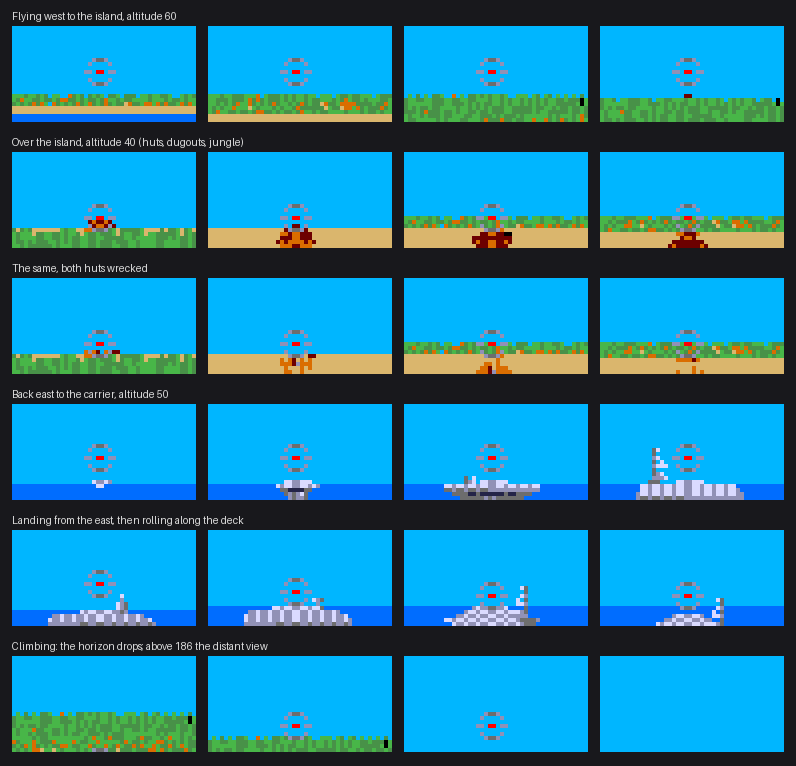
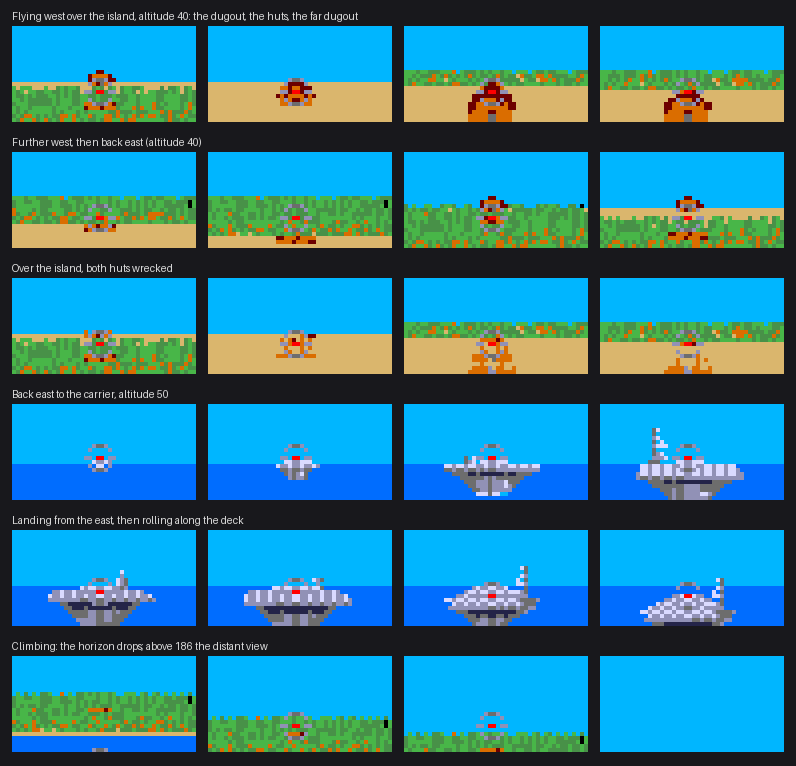
Cockpit window: targets stay in view; black border on the full screens; launch.sh -n
- Play-tested: arriving at the island the first dugout showed, then only
  jungle. With the original's arithmetic a nearer band's jungle strip
  covers the targets behind it, and at usual altitudes the near bands fall
  below the window. The port draws the targets after all the ground and
  sits its picture 5 rows higher (horizon altitude / 16 + 12), so targets
  grow as they approach and the carrier fills the window on landing.
- The border is colour 1: on the briefing (red there) and rank selection
  it is now colour 0, black (Screens_Palette sets R7); verify_p0 checks it.
- ./launch.sh -n runs the ROM already built.
- ships_smoke: after the torpedo release, climb above altitude 200 before
  turning back over it: the guns' shell splashes near a low plane destroy a
  torpedo within 10 px (0x1ae2), so the run depended on the random draw.

diff --git a/src/msx/cockpit.c b/src/msx/cockpit.c
@@ -16,6 +16,7 @@ WINGS_CODE_SEGMENT(WINGS_SEGMENT_COCKPIT)
 #define SEA 0x99
 #define LAND 0x55
 #define FAR_ALTITUDE 186     /* above: the distant view, plain sky */
+#define LIFT 5               /* the port's picture sits higher: the near bands show */
 #define KIND_TOWER 4
 
 CockpitState g_Cockpit;
@@ -146,7 +147,7 @@ static void Scene(u16 x, u8 altitude, u8 left, u8 arrow)
     s_Next[2] = arrow;
     if (altitude > FAR_ALTITUDE) { s_Next[0] = 255; return; }
     s_Col = x >> 3; s_Left = left;
-    s_Next[0] = (altitude >> 4) + 17;
+    s_Next[0] = (altitude >> 4) + 17 - LIFT;
     s_Next[3] = altitude >= 81 ? 17 : ((81 - altitude) >> 2) + 6;
     s_Next[1] = left;
     deck = s_Col >= COCKPIT_CARRIER_FIRST && s_Col <= COCKPIT_CARRIER_LAST;
@@ -284,39 +285,33 @@ static const u8 s_Tree[11] = {
     COCKPIT_TREE + 5, COCKPIT_TREE + 5, COCKPIT_TREE + 4, COCKPIT_TREE + 4, COCKPIT_TREE + 3, COCKPIT_TREE + 3,
     COCKPIT_TREE + 2, COCKPIT_TREE + 2, COCKPIT_TREE + 1, COCKPIT_TREE + 1, COCKPIT_TREE};
 
-/* The bands from `from` (10: the farthest) down to `to`, far to near, a row
- * lower each. */
-static void Bands_(u8 from, u8 to)
-{
-    u8 b = from + 1, row = s_Next[0] + 10 - from;
-    u16 bit = 1 << from;
-    u16 land = s_Next[4] | (u16)s_Next[5] << 8, trees = s_Next[6] | (u16)s_Next[7] << 8;
-    const u8* object = s_Next + 8 + from;
-    for (; b > to; --b, bit >>= 1, ++row, --object)
-    {
-        if (land & bit && row < ROWS) Fill(row, 1, LAND);
-        if (trees & bit) Blit(s_Tree[b - 1], row, 0);
-        if (*object) Blit(*object - 1, row, 0);
-    }
-}
-
-/* The picture in two halves: the sky, the sea and the far bands; then the
- * near bands, the deck view and the sight. */
+/* The picture in two halves: the sky, the sea and the ground, far to near
+ * a row lower each band; then the targets on it (the port draws them after
+ * the ground, so a nearer band's jungle does not hide them), the deck view
+ * and the sight. */
 static void ComposeFar(void)
 {
-    u8 base = s_Next[0];
+    u8 base = s_Next[0], b, row;
+    u16 bit = 1 << 10;
+    u16 land = s_Next[4] | (u16)s_Next[5] << 8, trees = s_Next[6] | (u16)s_Next[7] << 8;
     Fill(0, ROWS, SKY);
     if (base == 255) return;
     if (base < ROWS) Fill(base, ROWS - base, SEA);
-    Bands_(10, 5);
+    for (b = 11, row = base; b; --b, bit >>= 1, ++row)
+    {
+        if (land & bit && row < ROWS) Fill(row, 1, LAND);
+        if (trees & bit) Blit(s_Tree[b - 1], row, 0);
+    }
 }
 
 static void ComposeNear(void)
 {
     u8 base = s_Next[0], row, step, top, shape;
+    const u8* object = s_Next + 8 + 10;
     if (base != 255)
     {
-        Bands_(4, 0);
+        for (row = base; object >= s_Next + 8; ++row, --object)
+            if (*object) Blit(*object - 1, row, 0);
         if (s_Next[1] & 2)
         {
             /* The deck view (0x4430): it slides down a row every 6 columns

diff --git a/tools/convert_cockpit.py b/tools/convert_cockpit.py
@@ -55,6 +55,9 @@ BAND_FAR = [2 * EDGE[b + 2] - EDGE[b + 1] for b in range(11)]
 K6 = [6, 6, 5, 5, 4, 4, 3, 3, 2, 2, 1]
 K7 = [7, 7, 6, 6, 5, 4, 3, 2, 1, 0, 0]
 FAR_ALTITUDE = 186                   # above: the distant view, plain sky
+# The port's picture sits LIFT rows higher than the original's (horizon
+# altitude / 16 + 17 in the window): the near bands stay in the window.
+LIFT = 5
 
 # Object kinds in a map's spans.
 KIND_HUT, KIND_DUGOUT, KIND_GUN, KIND_CARRIER, KIND_TOWER = range(5)
@@ -248,7 +251,7 @@ def scene(map_name, x, altitude, facing_left, arrow=0, wrecked=()):
         s[0] = 255
         return bytes(s)
     col = x >> 3
-    s[0] = altitude // 16 + 17
+    s[0] = altitude // 16 + 17 - LIFT
     s[3] = 17 if altitude >= 81 else (81 - altitude) // 4 + 6
     deck = carrier and carrier[0] <= col <= carrier[1]
     s[1] = facing_left
@@ -302,11 +305,14 @@ def compose(scene_bytes, arrows=None):
     if base != 255:
         for y in range(base, HEIGHT): win[y * SLOT:(y + 1) * SLOT] = bytes([SEA]) * SLOT
         land = s[4] | s[5] << 8; trees = s[6] | s[7] << 8
+        # The ground, far to near, then the targets on it: the port draws
+        # them last, so a nearer band's jungle does not hide them.
         for k in range(10, -1, -1):
             row = base + 10 - k
             if land >> k & 1 and row < HEIGHT: win[row * SLOT:(row + 1) * SLOT] = bytes([LAND]) * SLOT
             if trees >> k & 1: blit(FIRST['TREE'] + K6[k] - 1, row)
-            if s[8 + k]: blit(s[8 + k] - 1, row)
+        for k in range(10, -1, -1):
+            if s[8 + k]: blit(s[8 + k] - 1, base + 10 - k)
         if s[1] & 2:
             step = s[1] >> 4; y = base + step + 9; top = base + max(0, step - 7)
             left = s[1] & 1

diff --git a/src/msx/screens.h b/src/msx/screens.h
@@ -34,8 +34,9 @@ void Screens_RankLine(u8 page, u8 line) WINGS_BANKED;
 /* msx/screen_end.c: the colours a screen is shown in. Set as its page is
  * published (or before drawing on the page shown), so no screen is ever
  * seen in another's colours: the play area's palette (the line interrupt
- * reloads it each frame) and the VDP's at once, the dashboard's, and the
- * column mask (off for the full-screen ones, which are not scrolled). */
+ * reloads it each frame) and the VDP's at once, the dashboard's, the
+ * column mask (off for the full-screen ones, which are not scrolled) and the
+ * border's colour. */
 #define SCREENS_PLAY   0   /* the play's palettes, the mask on */
 #define SCREENS_WEAPON 1   /* the play's, colours 12..15 lent to the weapon panel */
 #define SCREENS_BRIEF  2   /* the briefing's over the play area, black */

diff --git a/tools/verify_p0.py b/tools/verify_p0.py
@@ -87,6 +87,9 @@ def main():
         # (Black on rank selection and the briefing: full screen, src/msx/screen_end.c.)
         sky=b'\x00\x00' if game[0] in (0,1) else terrain_palette[:2]
         assert (out/f'{name}.palette').read_bytes()[:2]==sky,(name,'sky colour 0',(out/f'{name}.palette').read_bytes()[:2])
+        # The border (R7): colour 0, black, on the full-screen ones; else the
+        # dark sea, colour 1 (msx/screen_end.c Screens_Palette).
+        assert (out/f'{name}.regs').read_bytes()[7]==(0 if game[0] in (0,1) else 1),(name,'border',(out/f'{name}.regs').read_bytes()[7])
         vram=(out/f'{name}.vram').read_bytes()
         # Tile cache: every loaded slot holds its strip's 8 tiles (ROM banks
         # from 32, 256 bytes a strip), as 64 rows of 4 bytes at rows 180..

diff --git a/src/msx/screen_end.c b/src/msx/screen_end.c
@@ -191,4 +191,8 @@ void Screens_Palette(u8 which) WINGS_BANKED
     else Dashboard_CopyPalette(g_BottomPalette);
     Load(g_TopPalette);
     VDP_EnableMask(which < SCREENS_BRIEF);
+    /* The border is colour 1: the play's dark sea, the same in the play's and
+     * the dashboard's palettes. The full-screen ones give colour 1 other
+     * uses (the briefing's red): their border is colour 0, black there. */
+    VDP_SetColor(which < SCREENS_BRIEF ? 1 : 0);
 }

diff --git a/docs/cockpit.md b/docs/cockpit.md
@@ -45,6 +45,16 @@ plain sky.
   from `g_Island`; dugouts; AA guns; the carrier and its tower). The
   original's scan lets any other non-empty map word in a band hide its
   object; the port does not: each band shows its farthest object.
+- **Two adaptations after play-testing** (2026-11-19, the user: arriving at
+  the island, the first dugout showed, then only jungle): with the
+  original's arithmetic, a nearer band's jungle strip (4..7 rows, full
+  width, one row lower) covers the targets in the bands behind it, and at
+  usual altitudes the near bands fall below the window (horizon at
+  `altitude / 16 + 17`: at 40, only the bands 500 px and more ahead show),
+  so a target was seen far off and then vanished instead of growing. The
+  port draws the targets after all the ground, and its picture sits 5 rows
+  higher (horizon at `altitude / 16 + 12`), so targets stay in view as they
+  approach, and the carrier and deck show more on landing.
 - **Scene** (`msx/cockpit.c`, segment 51): from the plane's column,
   altitude, facing, the torpedo plane's arrow and the huts, 19 bytes: the
   horizon, the deck step, the sight's row, the land and jungle bands, each
@@ -52,13 +62,13 @@ plain sky.
   falls in (`Bands`, in Z80); only objects within reach are looked at (a
   window over the sorted list moves with the plane).
 - **Composing**: when the scene changes, it is drawn into the buffer (VDP
-  fills and transparent copies), then each page copies the buffer (one
+  fills and transparent copies: the sky, sea and ground; then the targets,
+  the deck view and the sight), then each page copies the buffer (one
   HMMM) the next time it is rendered, the arrow on top. The work (about
   30,000 T-states) is done in the idle time before a VBlank, like the
   terrain prefetch (`Cockpit_Work`); a render costs about 2,700. Without
   idle time (the heaviest frames), renders that have waited two frames do
-  it a step at a time: the scene, then the far half of the picture, then
-  the near half. A page never copies a half-drawn buffer, and a change
+  it a step at a time: the scene, then the ground, then the rest. A page never copies a half-drawn buffer, and a change
   meanwhile waits for the picture under way, so a run of changes still
   shows.
 - **Not yet**: the enemy planes (`zr1*`/`zr2*`, from 48 to 1280 px ahead,
